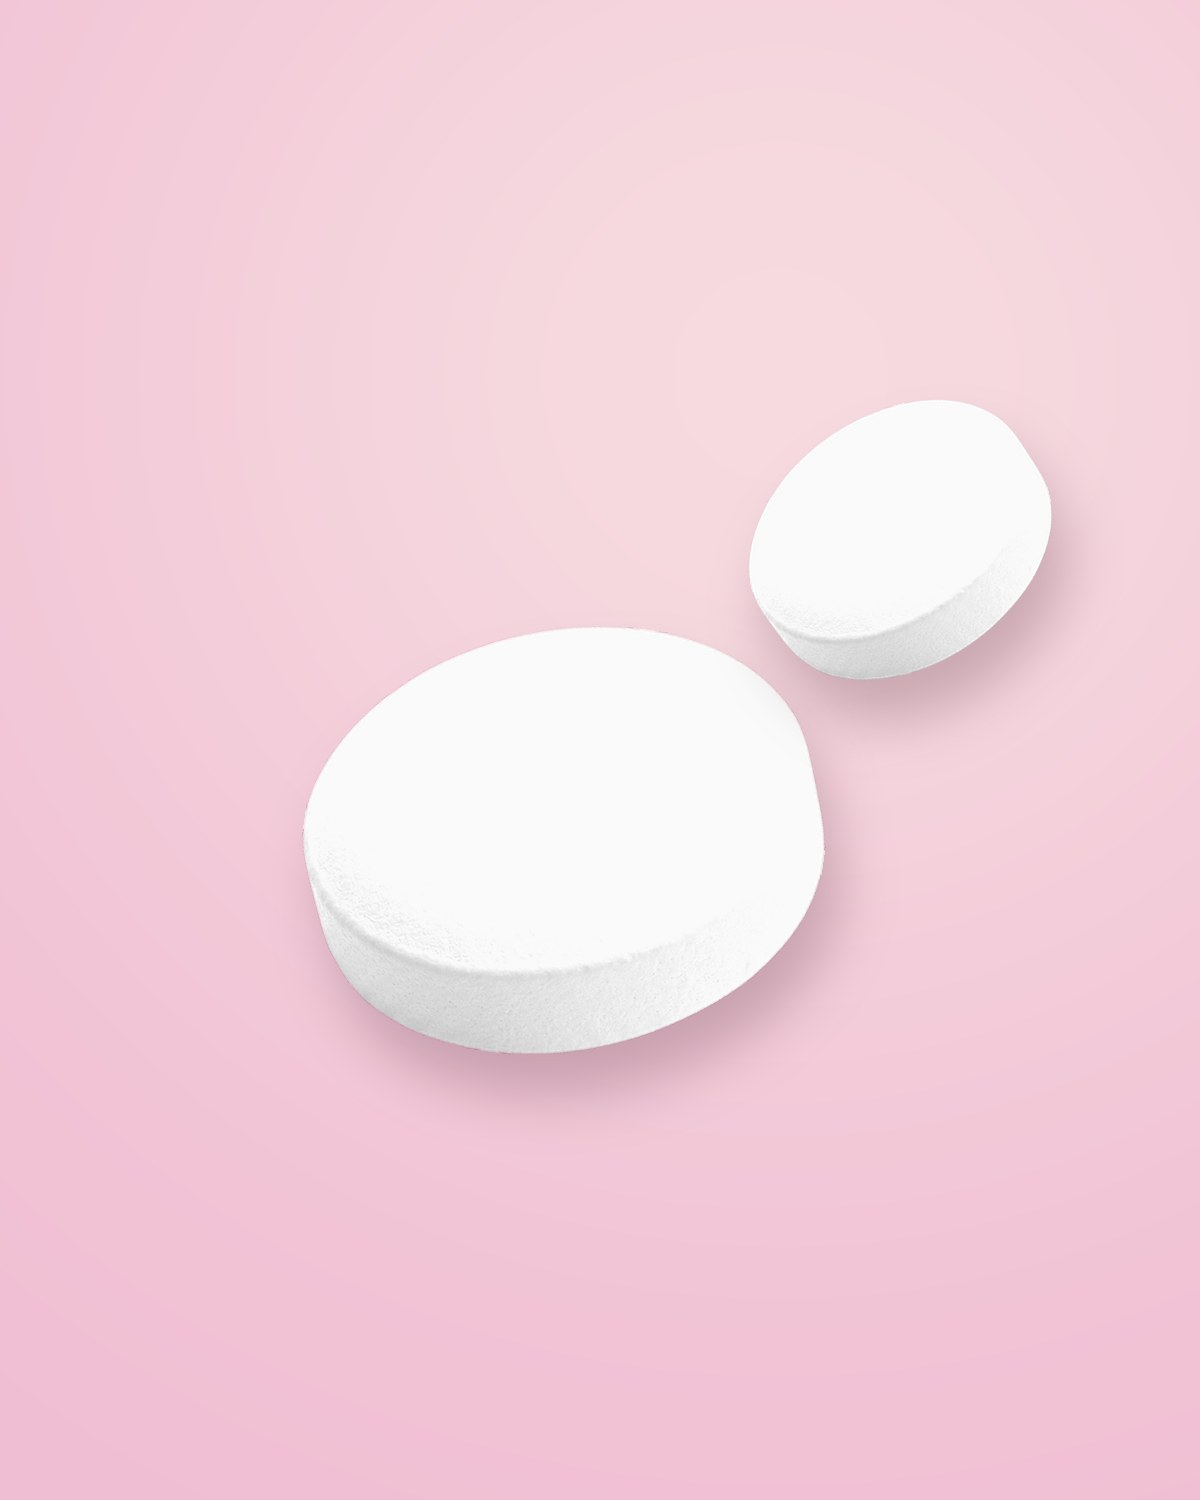
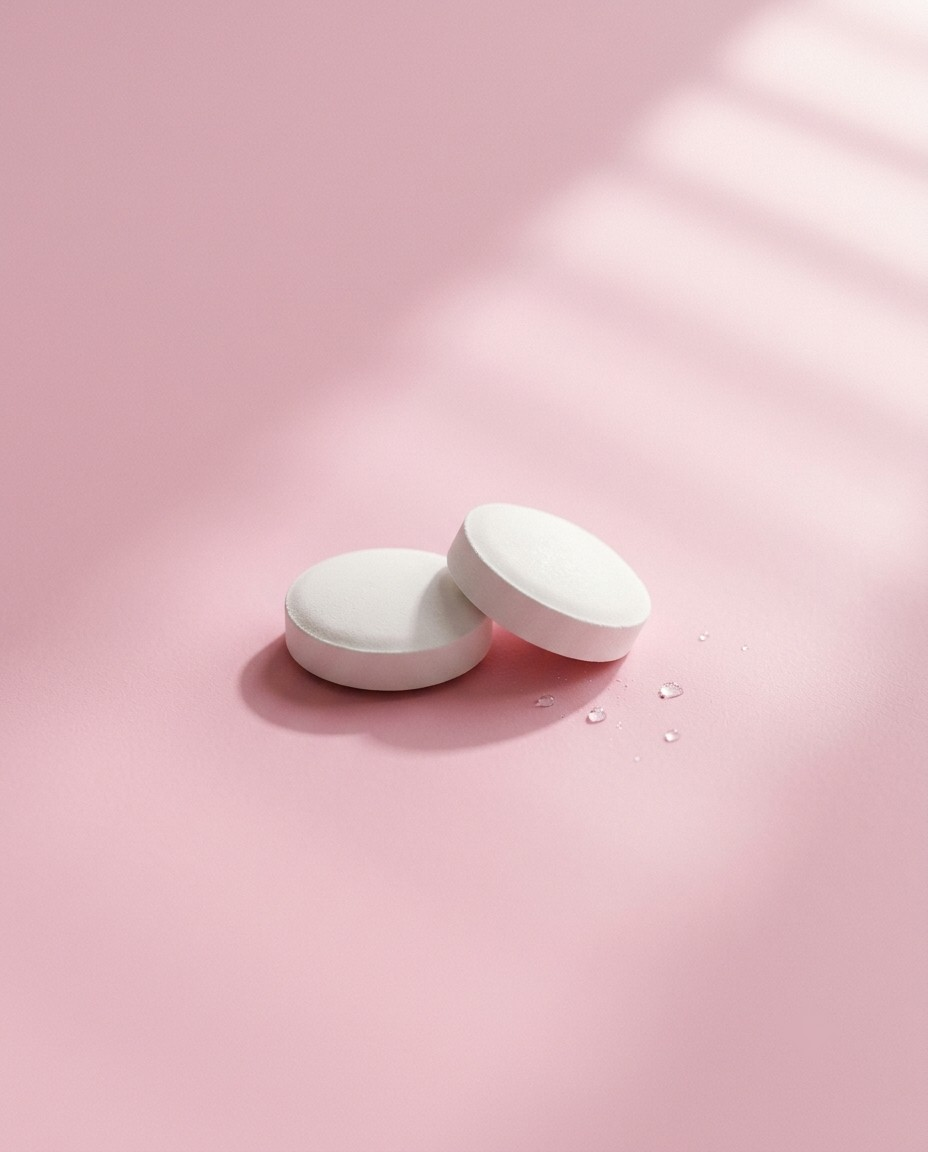
v3: daily 패널 엽산·유산균 사진 교체
Claude-Session: https://claude.ai/code/session_01YP9wfbe2ZJur2v7akiC449

diff --git a/v3.html b/v3.html
@@ -399,7 +399,7 @@ p,li,dd,h3,h4{text-wrap:pretty}
 .t-pro{background:radial-gradient(120% 80% at 80% 0%,rgba(214,231,190,.9),transparent 60%),radial-gradient(90% 70% at 0% 100%,rgba(255,233,110,.55),transparent 60%),var(--iv)}
 .t-pro .t-venn i{background:rgba(214,231,190,.55)}
 @media(prefers-reduced-motion:reduce){.rv.in img.t-img{animation:none}}
-.mosaic figure:nth-child(3) img{object-position:62% 50%}
+.mosaic figure:nth-child(3) img{object-position:50% 55%}
 
 /* r8: MIRA형 캠페인 오프닝 */
 .camp{position:relative;height:100svh;min-height:620px;overflow:hidden;color:var(--ch)}
